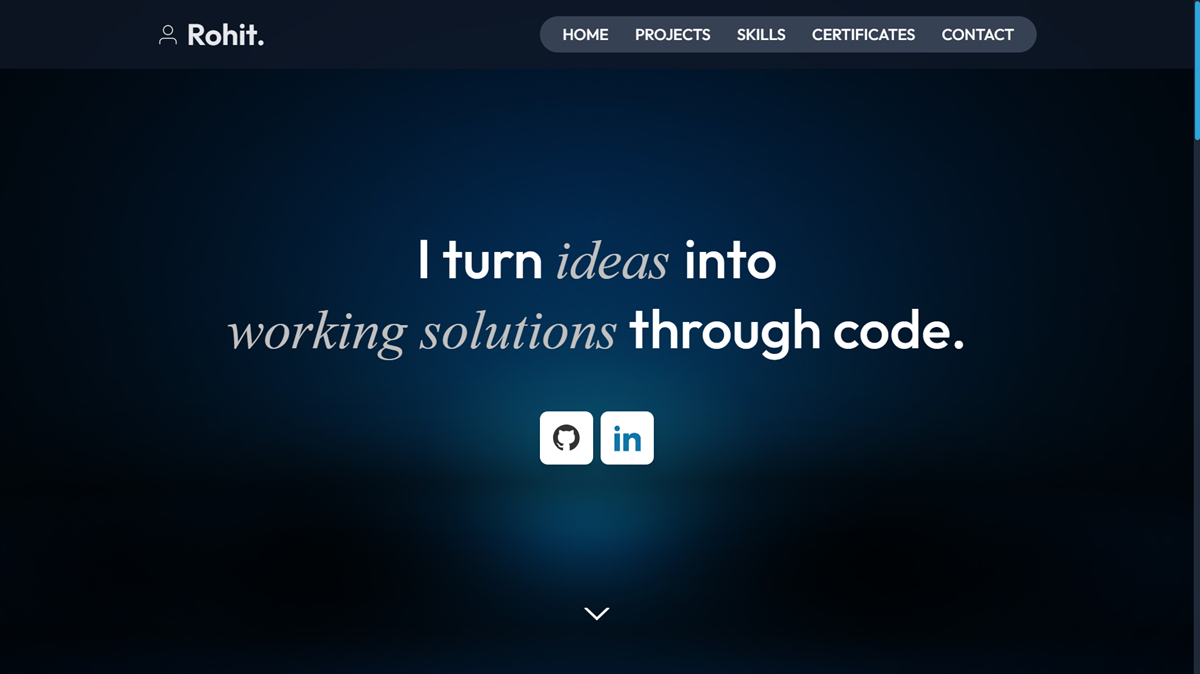
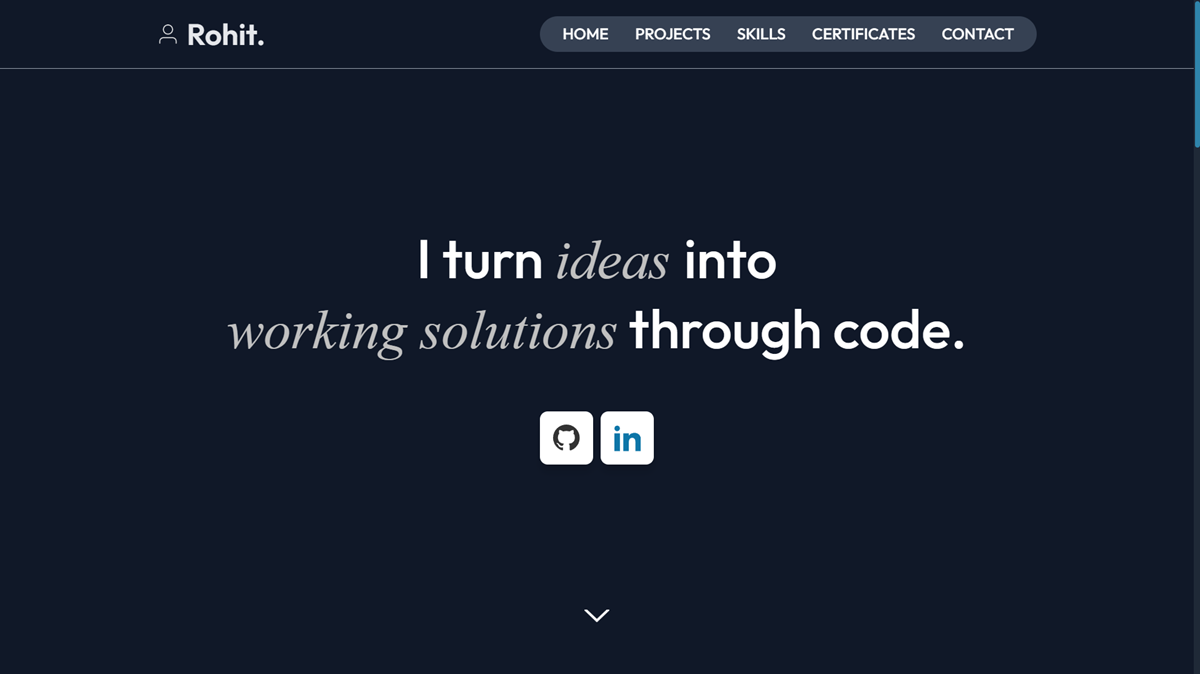
multiple updates

diff --git a/src/components/Skills.tsx b/src/components/Skills.tsx
@@ -7,38 +7,38 @@ import './Skills.css'
         className="skills text-[40px] select-none w-full bg-gray-900 p-[110px] px-[40px] sm:px-[120px] flex flex-col gap-[40px]"
         id="skills"
       >
-        <h1 className="text-center text-[32px] sm:text-[36px] font-bold">MY TECH STACK :</h1>
+        <h1 className="text-center text-[32px] sm:text-[36px] font-bold">/ MY TECH STACK :</h1>
 
         {/* TECHNOLOGIES */}
         <div className="technologies flex flex-col gap-1">
           <div className="spin flex justify-center items-center gap-4 mt-[20px] hover:scale-104 transition-transform">
-            <img src="typescript.png" className="logo h-[36px]" alt="TypeScript Logo" />
-            <h3 className="ts text-[28px]">TYPESCRIPT</h3>
+            <img src="typescript.png" className="logo h-[48px]" alt="TypeScript Logo" />
+            <h3 className="ts text-[30px]">TYPESCRIPT</h3>
           </div>
 
           <div className="spin flex justify-center items-center gap-4 mt-[20px] hover:scale-104 transition-transform">
-            <img src="javascript.png" className="logo h-[38px]" alt="JavaScript Logo" />
-            <h3 className="js text-[28px]">JAVASCRIPT</h3>
+            <img src="javascript.png" className="logo h-[52px]" alt="JavaScript Logo" />
+            <h3 className="js text-[30px]">JAVASCRIPT</h3>
           </div>
 
           <div className="spin flex justify-center items-center gap-4 mt-[20px] hover:scale-104 transition-transform">
-            <img src="react.png" className="logo h-[38px]" alt="React Logo" />
-            <h3 className="re text-[28px]">REACT</h3>
+            <img src="react.png" className="logo h-[50px]" alt="React Logo" />
+            <h3 className="re text-[30px]">REACT</h3>
           </div>
 
           <div className="spin flex justify-center items-center gap-4 mt-[20px] hover:scale-104 transition-transform">
-            <img src="Tailwind Logo.png" className="logo tw h-[24px]" alt="Tailwind Logo" />
-            <h3 className="tw text-[28px]">TAILWIND CSS</h3>
+            <img src="Tailwind Logo.png" className="logo tw w-[52px]" alt="Tailwind Logo" />
+            <h3 className="tw text-[30px]">TAILWIND CSS</h3>
           </div>
 
           <div className="spin flex justify-center items-center gap-4 mt-[20px] hover:scale-104 transition-transform">
-            <img src="nod.png" className="logo h-[36px] mt-1" alt="Node.js Logo" />
-            <h3 className="njs text-[28px]">NODE JS</h3>
+            <img src="nod.png" className="logo h-[48px] mt-1" alt="Node.js Logo" />
+            <h3 className="njs text-[30px]">NODE JS</h3>
           </div>
 
           <div className="spin flex justify-center items-center gap-4 mt-[20px] hover:scale-104 transition-transform">
-            <img src="exp.png" className="logo h-[36px]" alt="Express Logo" />
-            <h3 className="text-[28px] text-shadow-white">EXPRESS JS</h3>
+            <img src="exp.png" className="logo h-[48px]" alt="Express Logo" />
+            <h3 className="text-[30px] text-shadow-white">EXPRESS JS</h3>
           </div>
         </div>
       </div>

diff --git a/src/components/Navbar.tsx b/src/components/Navbar.tsx
@@ -9,7 +9,7 @@ const Navbar:React.FC = () => {
 
 
   return (
-    <div className="navbar fixed border-b border-white select-none top-0 left-0 h-16 bg-gray-900/75 backdrop-blur-md sm:h-22 w-full flex justify-between px-[20px] md:px-[25px] md:justify-around items-center text-lg font-medium text-white z-3">
+    <div className="navbar fixed border-b border-gray-400 select-none top-0 left-0 h-16 bg-gray-900/75 backdrop-blur-md sm:h-22 w-full flex justify-between px-[20px] md:px-[25px] md:justify-around items-center text-lg font-medium text-white z-3">
       <div className="name flex justify-center items-center gap-[8px] md:gap-[10px]">
         <img src='profile.png' className="md:h-[28px] md:w-[28px] h-[24px] w-[24px]"></img>
         <h1 className="rohittext text-[31px] text-gray-200 md:text-[38px] font-semibold md:ml-0">Rohit.</h1>
@@ -24,11 +24,11 @@ const Navbar:React.FC = () => {
         {/* Desktop Menu */}
         
         <div className='hidden md:flex gap-[34px] bg-gray-700 justify-center items-center w-[635px] h-[46px] rounded-3xl text-[20px]'>
-          <a href="#home" className="hover:text-sky-500 transition-colors duration-200"><h1>HOME</h1></a>
-          <a href="#projects" className="hover:text-sky-500 transition-colors duration-200"><h1>PROJECTS</h1></a>
-          <a href="#skills" className="hover:text-sky-500 transition-colors duration-200"><h1>SKILLS</h1></a>
-          <a href="#certifications" className="hover:text-sky-500 transition-colors duration-200"><h1>CERTIFICATES</h1></a>
-          <a href="#contact" className="hover:text-sky-500 transition-colors duration-200"><h1>CONTACT</h1></a>
+          <a href="#home" className="hover:text-sky-300 transition-colors duration-200"><h1>HOME</h1></a>
+          <a href="#projects" className="hover:text-sky-300 transition-colors duration-200"><h1>PROJECTS</h1></a>
+          <a href="#skills" className="hover:text-sky-300 transition-colors duration-200"><h1>SKILLS</h1></a>
+          <a href="#certifications" className="hover:text-sky-300 transition-colors duration-200"><h1>CERTIFICATES</h1></a>
+          <a href="#contact" className="hover:text-sky-300 transition-colors duration-200"><h1>CONTACT</h1></a>
         </div>
 
         {/* Mobile Menu */}

diff --git a/src/components/Projects.tsx b/src/components/Projects.tsx
@@ -4,7 +4,7 @@ const Projects: React.FC = () => {
   return (
     <div
       className='projectscont bg-gray-800 text-white flex justify-center items-center h-auto py-[150px] px-[40px] sm:px-[120px] flex-col w-[full]' id="projects">
-      <h1 className='text-[32px] sm:text-[36px] text-center font-bold'>PROJECTS :</h1>
+      <h1 className='text-[32px] sm:text-[36px] text-center font-bold'>/ PROJECTS :</h1>
 
       <div className='projects flex flex-wrap justify-center gap-10 mt-[50px] sm:w-[80%]'>
 
@@ -23,7 +23,7 @@ const Projects: React.FC = () => {
             <img src="notespark.png" className='w-full shadow-sm rounded-t-md' alt="Resume Builder" />
             <h1 className='text-[20px] p-[18px] text-gray-700 font-medium'>NoteSpark</h1>
             <p className='mb-[20px] mt-[-18px] text-gray-600 text-[16px] sm:text-[18px]'>
-              'Reliable note app'
+              'Notes App for daily notes'
             </p>
           </div>
         </a>

diff --git a/src/components/Contact.tsx b/src/components/Contact.tsx
@@ -3,7 +3,7 @@ import React from 'react'
 const Contact:React.FC = () => {
   return (
     <div className = "flex flex-col bg-gray-900 justify-center items-center gap-[20px] p-[150px] px-[40px] sm:px-[120px]" id="contact">
-        <h1 className='text-[32px] sm:text-[36px] font-bold'>CONTACT :</h1>
+        <h1 className='text-[32px] sm:text-[36px] font-bold'>/ CONTACT :</h1>
         <p className='text-[22px] sm:text-[30px] flex gap-[8px] hover:scale-104 transition-transform'><img src="mail_icon.png" className='h-[50px] mt-[-6px] sm:mt-0' />rkrohitkumar893@gmail.com</p>
     </div>
   )

diff --git a/src/components/Certificates.tsx b/src/components/Certificates.tsx
@@ -5,7 +5,7 @@ const Certificates: React.FC = () => {
   <div className='certifications flex flex-col justify-center items-center gap-[90px] py-[150px] px-[40px] sm:px-[120px] bg-gray-800'
       id="certifications"
     >
-      <h1 className='text-[32px] sm:text-[36px] font-bold text-white'>CERTIFICATIONS :</h1>
+      <h1 className='text-[32px] sm:text-[36px] font-bold text-white'>/ CERTIFICATIONS :</h1>
 
       <div className='flex flex-wrap justify-center gap-10'>
         {/* Microsoft Certificate */}

diff --git a/src/App.tsx b/src/App.tsx
@@ -5,6 +5,7 @@ import Skills from './components/Skills'
 import Projects from './components/Projects'
 import Certificates from './components/Certificates'
 import Contact from './components/Contact'
+import Footer from './components/Footer'
 
 function App() {
   return (
@@ -15,6 +16,7 @@ function App() {
       <Skills />
       <Certificates />
       <Contact />
+      <Footer />
     </>
   )
 }

diff --git a/index.html b/index.html
@@ -7,7 +7,7 @@
     <link rel="preconnect" href="https://fonts.googleapis.com">
     <link rel="preconnect" href="https://fonts.gstatic.com" crossorigin>
     <link href="https://fonts.googleapis.com/css2?family=Outfit:wght@100..900&display=swap" rel="stylesheet">
-    <title>Rohit | Portfolio</title>
+    <title>Rohit</title>
   </head>
   <body>
     <div id="root"></div>

diff --git a/src/components/Footer.tsx b/src/components/Footer.tsx
@@ -1,0 +1,11 @@
+import React from 'react'
+
+const Footer:React.FC = () => {
+  return (
+    <div className='h-20 flex justify-center items-start bg-gray-900'>
+        <h1 className='text-gray-400 text-lg'>- Designed and built by Rohit.</h1>
+    </div>
+  )
+}
+
+export default Footer

diff --git a/src/index.css b/src/index.css
@@ -19,7 +19,7 @@ html, body, #root{
 }
 
 ::-webkit-scrollbar-thumb {
-  background-color: #2ea6dd;
+  background-color: #2f84ab;
   border-radius: 10px;
   border: 2px solid #1f2937;
 }
